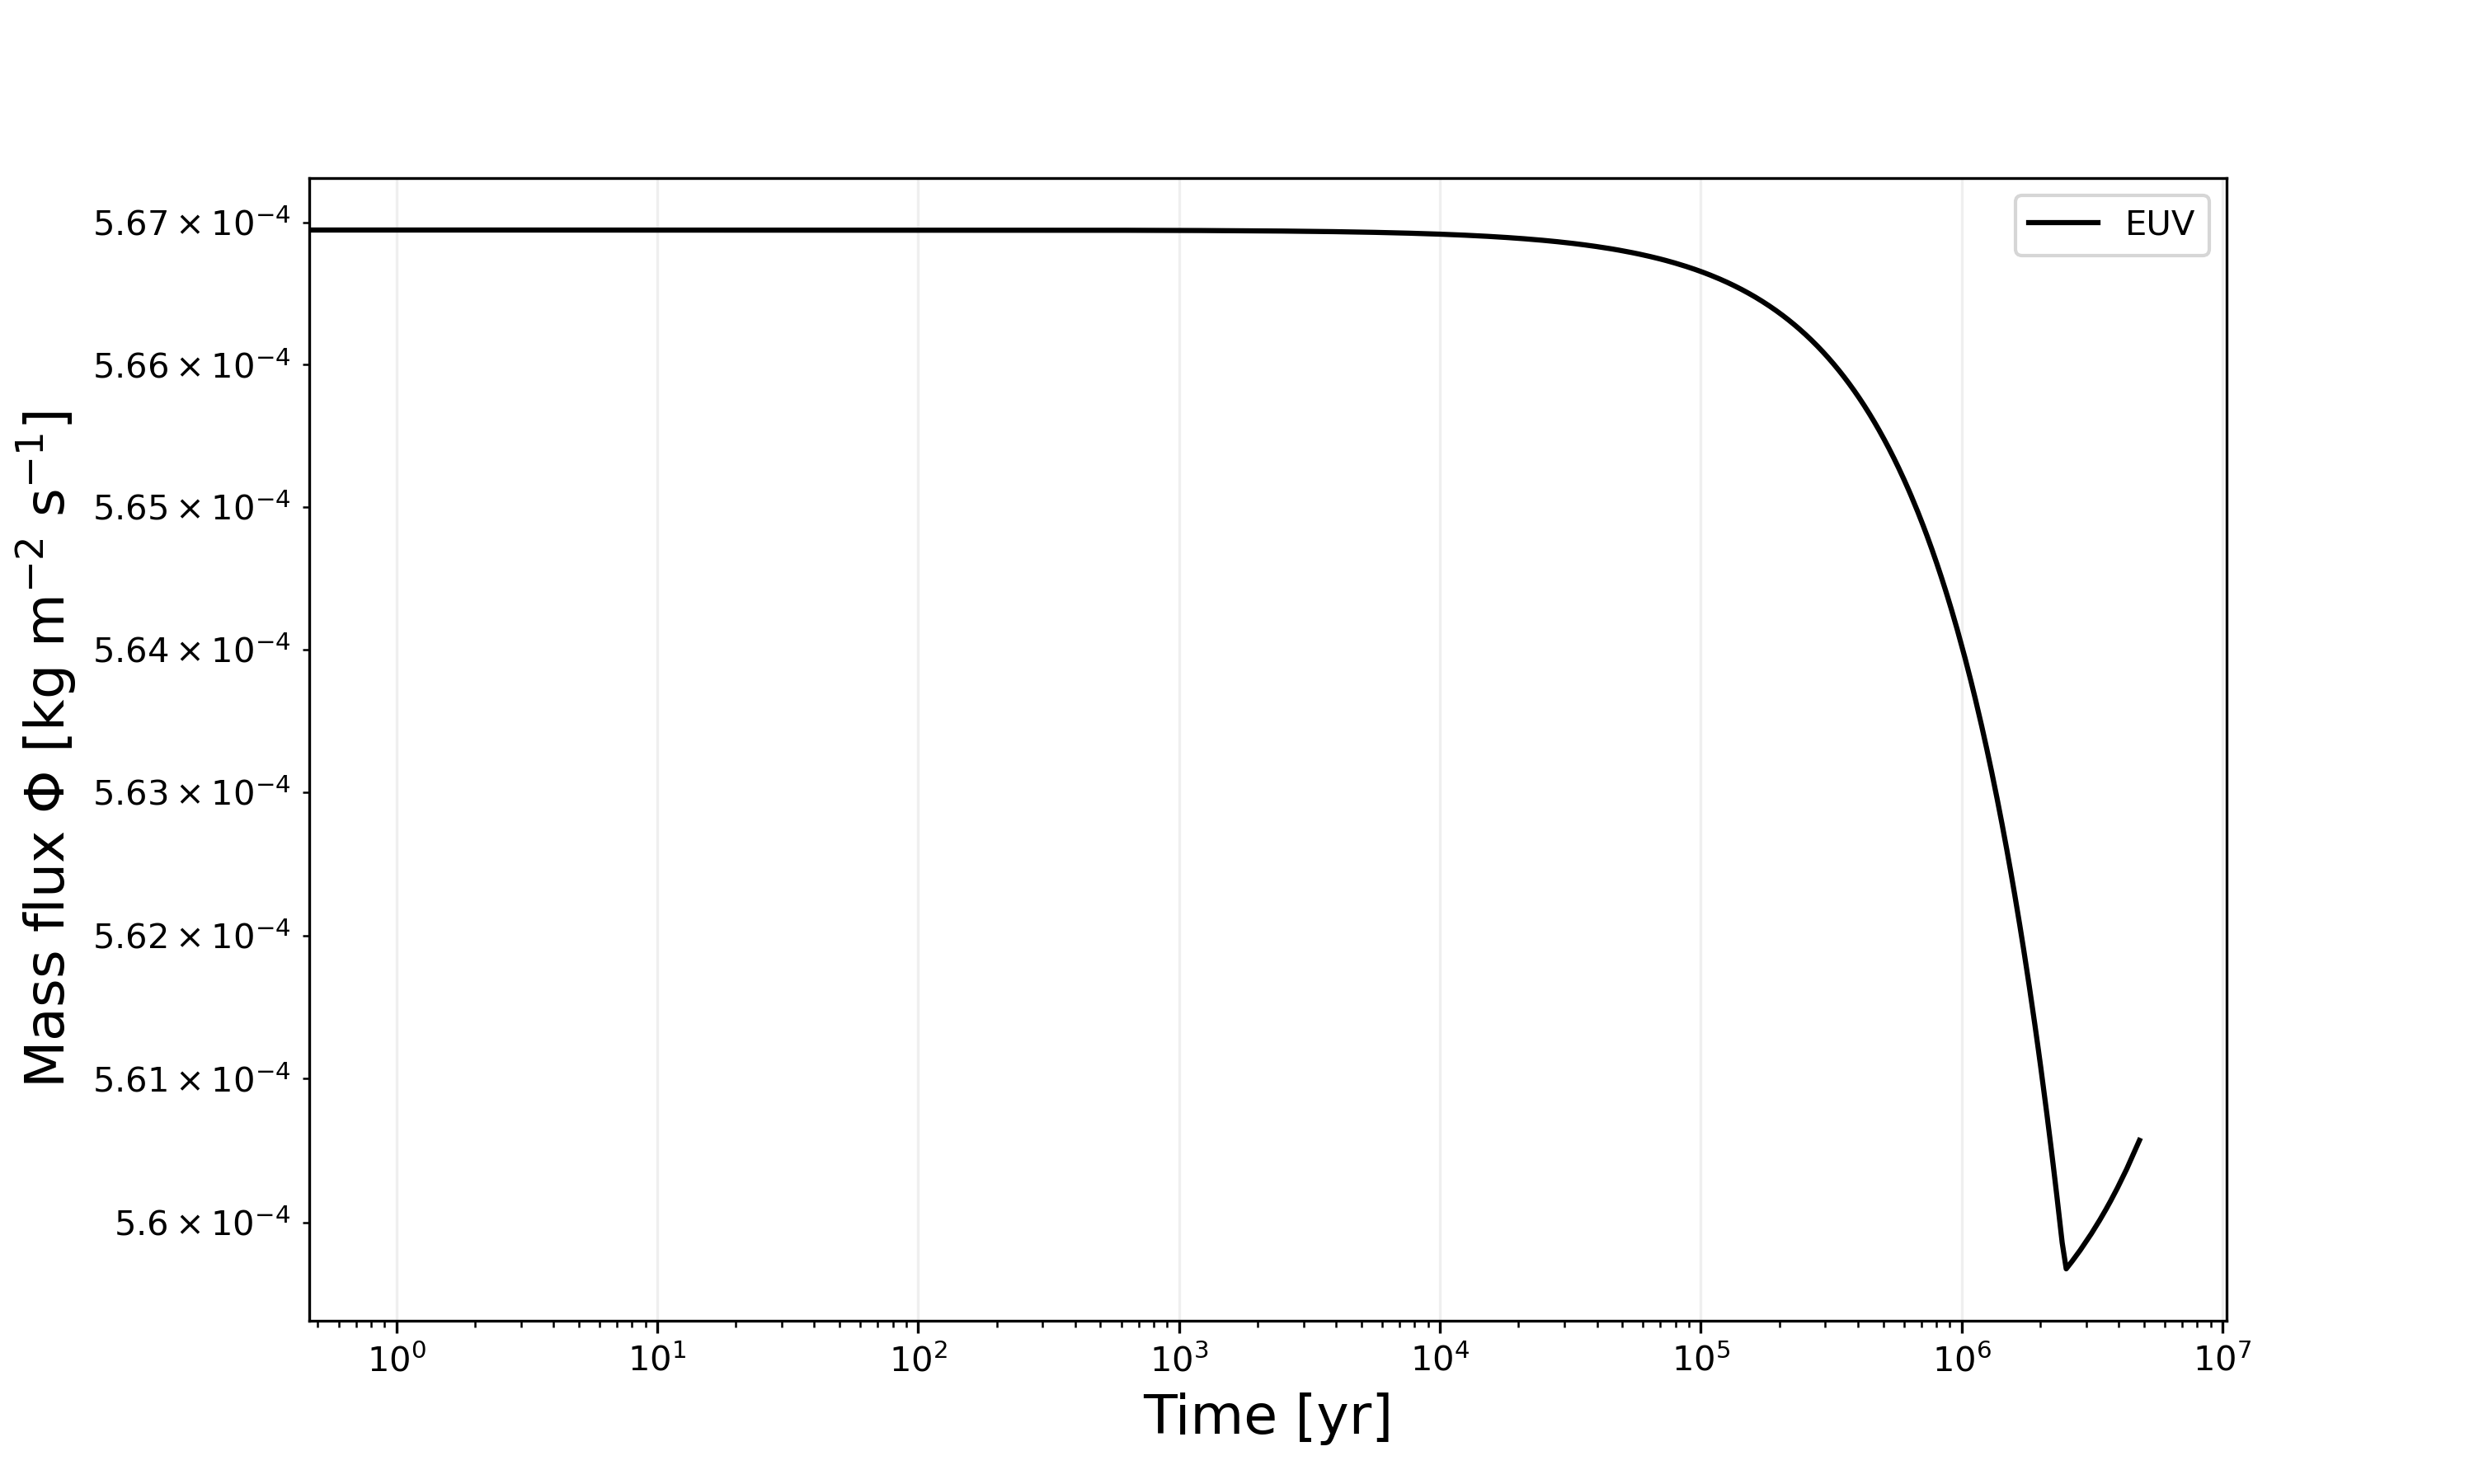
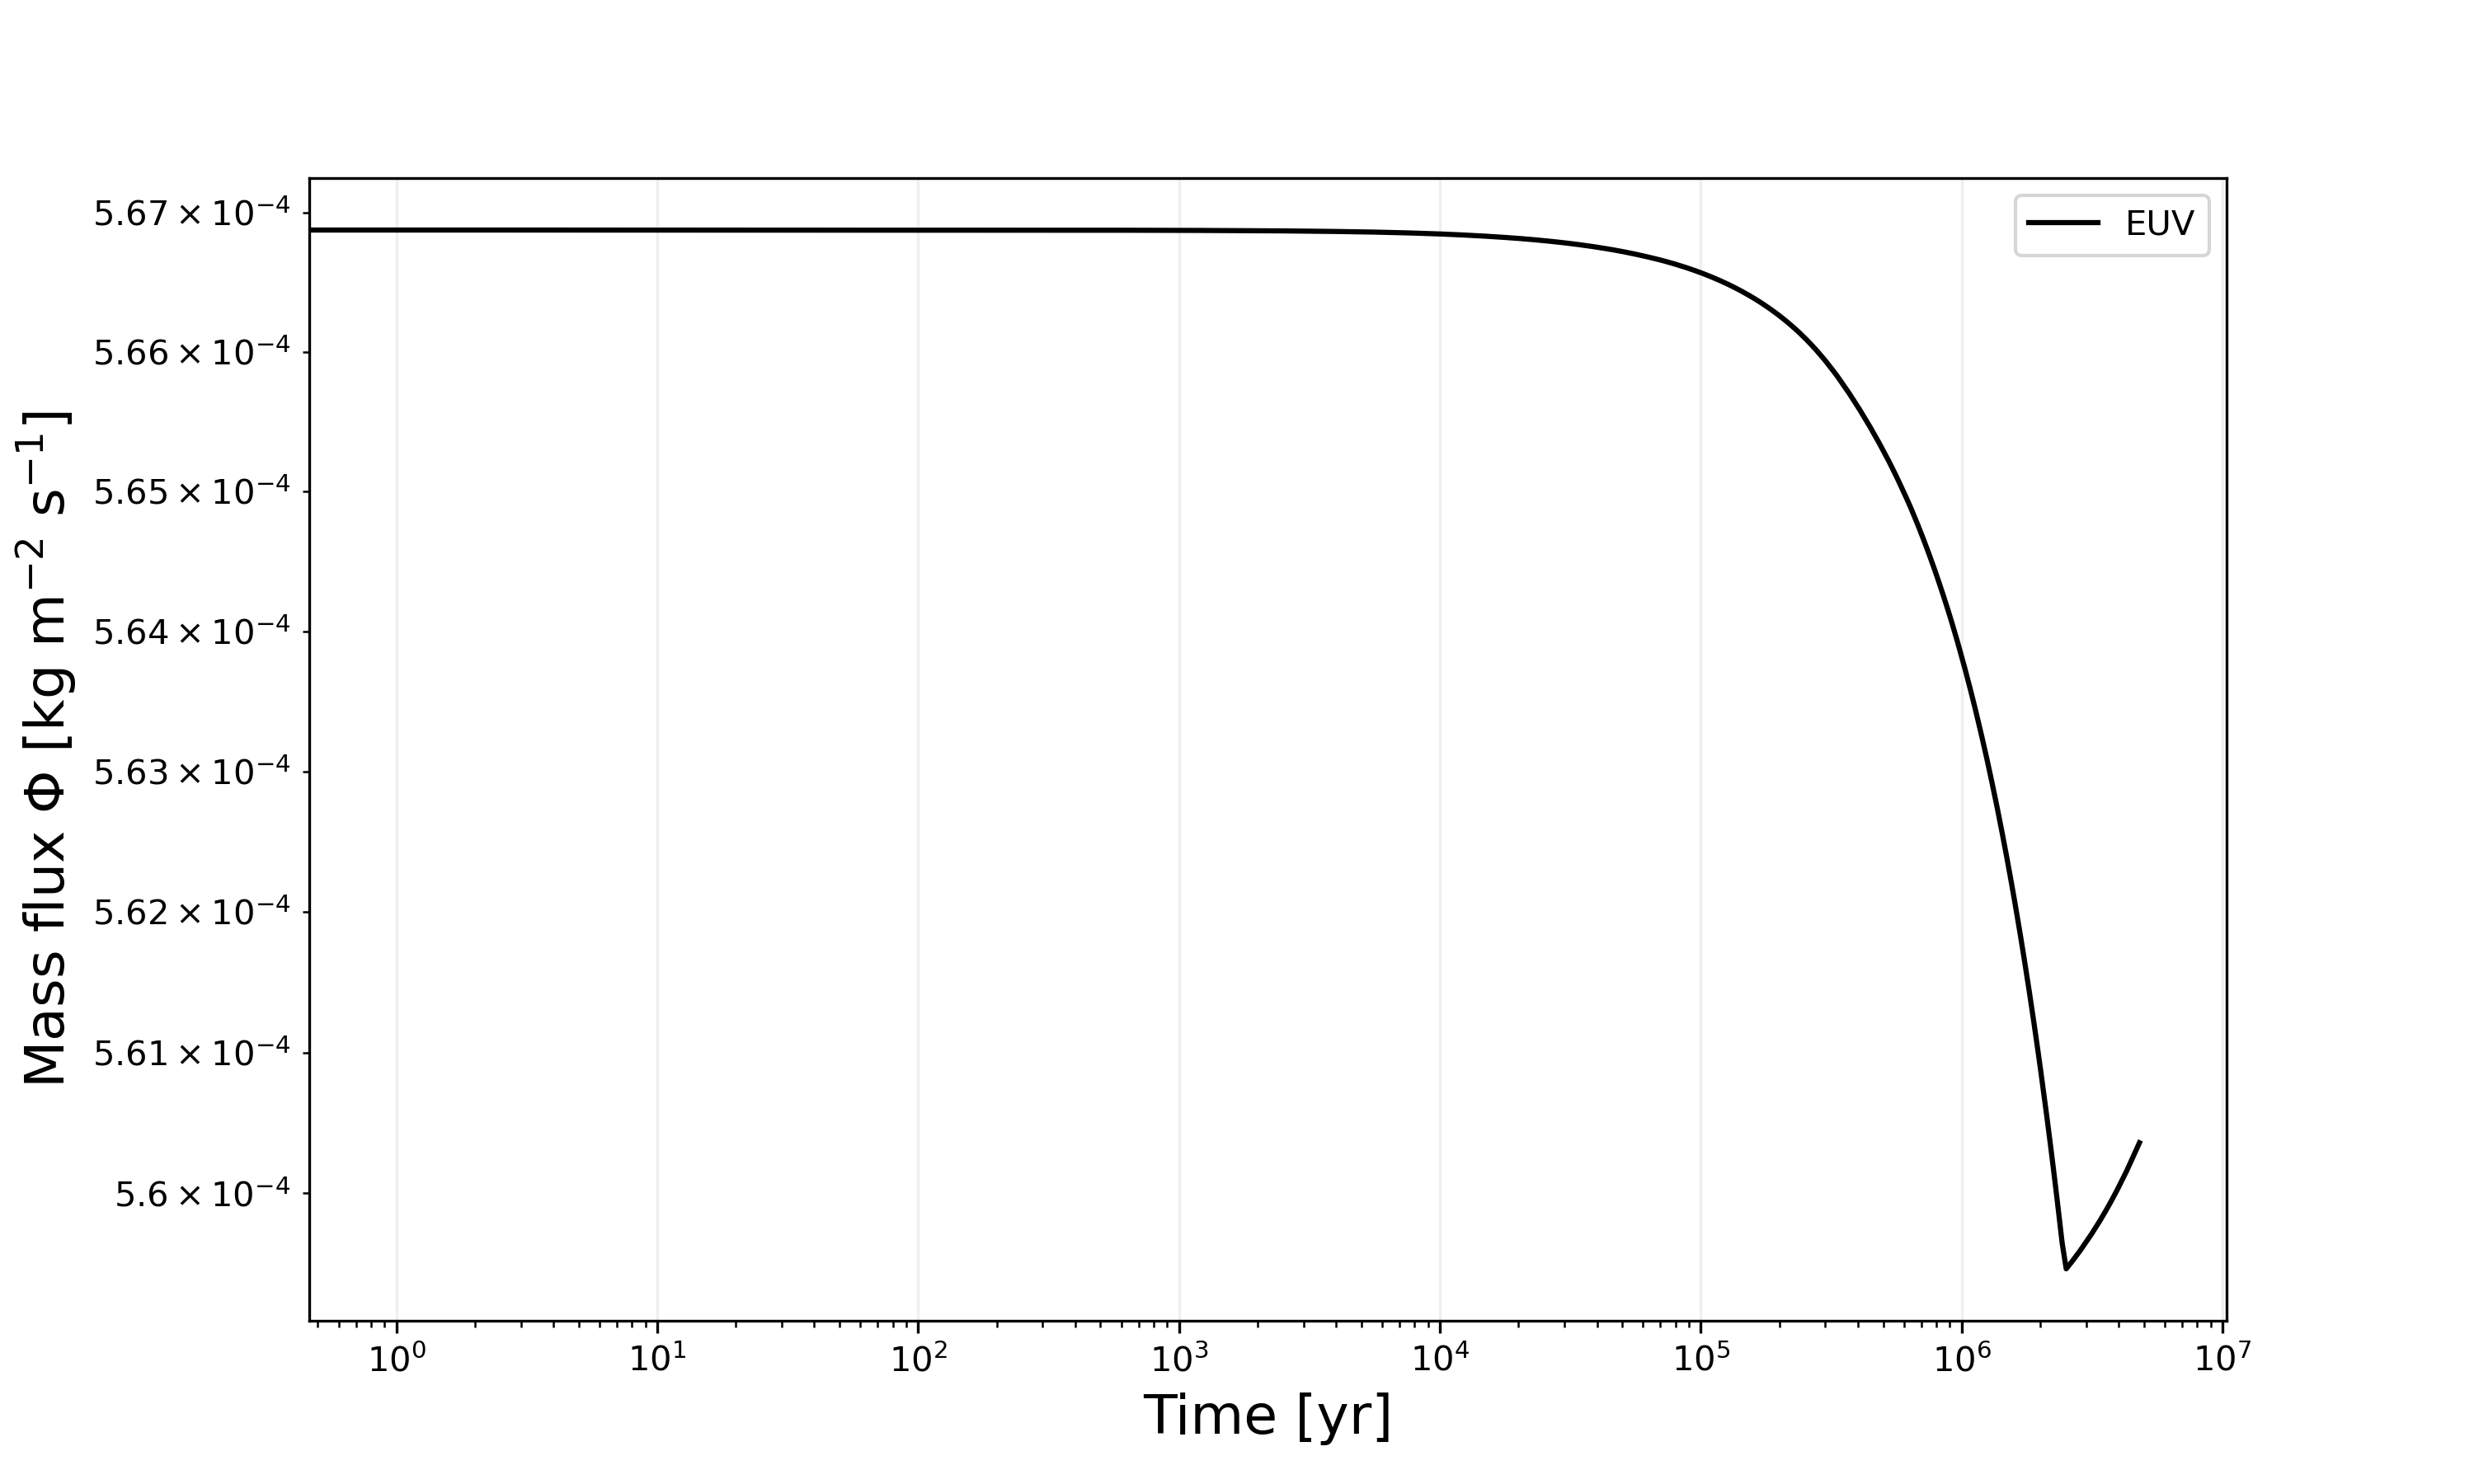
last update to loop over Mp

diff --git a/examples/demo_fractionation/demo_fractionation.py b/examples/demo_fractionation/demo_fractionation.py
@@ -19,6 +19,7 @@ mass_H = df['H_kg_atm'].values      # [kg]
 mass_O = df['O_kg_atm'].values      # [kg]
 Fxuv   = df['F_xuv'].values          # [W/m2]
 Matm   = df['M_atm'].values          # [kg]
+Mp   = df['M_planet'].values          # [kg]
 
 N_light = np.zeros(len(time))   
 N_heavy = np.zeros(len(time))
@@ -32,11 +33,11 @@ Phi_diffusion_critical = np.zeros(len(time))
 Phi_EUV_Collin = np.zeros(len(time))
 
 for i,t in enumerate(time):
-    Phi_EUV_Collin_i = (epsilon * Fxuv[i]) / (4 * (G * Mp / Rp**2))  # [particles/m2/s]
+    Phi_EUV_Collin_i = (epsilon * Fxuv[i]) / (4 * (G * Mp[i] / Rp**2))  # [particles/m2/s]
     b_HO_i = b_H_O(Teq[i])  # Binary diffusion coefficient for H and O
     n_H_i = mass_H[i] / (M_H)  # Number of H particles in the atmosphere [mol]
     n_O_i = mass_O[i] / (M_O)  # Number of O particles in the atmosphere [mol]
-    Phi_dl, Phi_df, Phi_c, Phi_l, Phi_h, Phi_tot = Fractionation_binary_mixture(n_light=n_H_i, n_heavy=n_O_i, Mp=Mp, Rp=Rp, b=b_HO_i, T=Teq[i], M_light=M_H, M_heavy=M_O, Phi=Phi_EUV_Collin_i)
+    Phi_dl, Phi_df, Phi_c, Phi_l, Phi_h, Phi_tot = Fractionation_binary_mixture(n_light=n_H_i, n_heavy=n_O_i, Mp=Mp[i], Rp=Rp, b=b_HO_i, T=Teq[i], M_light=M_H, M_heavy=M_O, Phi=Phi_EUV_Collin_i)
     
     N_light[i] = n_H_i  
     N_heavy[i] = n_O_i